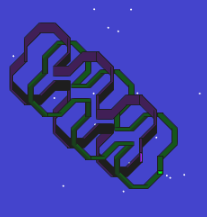
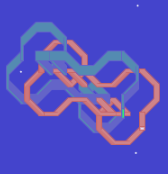
Add fun curves.

diff --git a/js/art/latest.js b/js/art/latest.js
@@ -85,14 +85,22 @@ function setup() {
                 0,1, 
                 -1,1
               ]; // Hex
-  var curve_count = 4;
-  for(i=0; i<curve_count; i++) {
-    base_path = base_path.concat([1,0,
+  fun_curves = [
+    [1,0,
       1,-1,
       1,0,
       0,1
-      -1,1
-    ]);
+      -1,1], // Hex
+    [-1,-1,
+      1,0,
+      1,1,
+      ], // Point
+  ];
+  var curve_count = 4;
+  for(i=0; i<curve_count; i++) {
+    base_path = base_path.concat(
+      choose(fun_curves)
+    );
   }
   
   latest_path = base_path;
